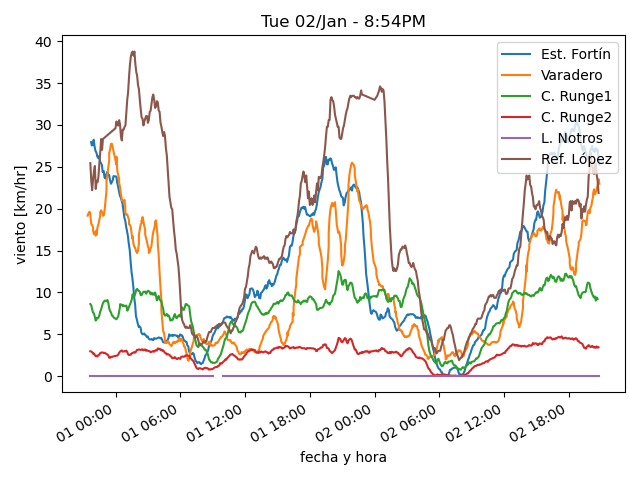
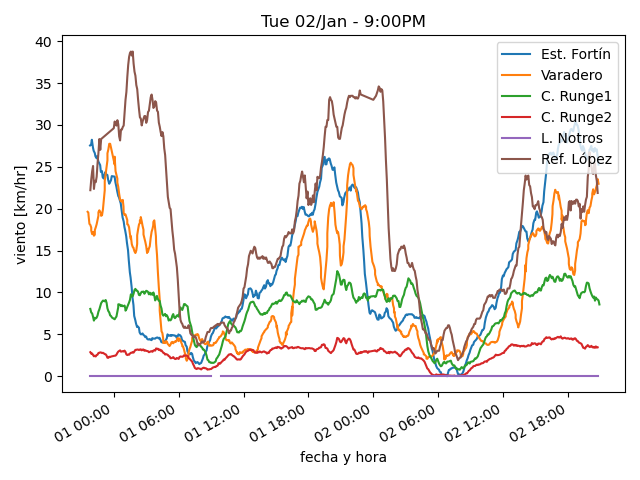
actualiza datos

diff --git a/estaciones/estacion3.html b/estaciones/estacion3.html
@@ -18,32 +18,32 @@
     </tr>
     <tr>
      <td class="stats_data">
-      8:39PM
+      8:54PM
      </td>
     </tr>
     <tr>
      <td class="stats_data">
-      21.0
+      20.9
      </td>
     </tr>
     <tr>
      <td class="stats_data">
-      7.5
+      7.7
      </td>
     </tr>
     <tr>
      <td class="stats_data">
-      41.8
+      42.4
      </td>
     </tr>
     <tr>
      <td class="stats_data">
-      1008.23
+      1008.33
      </td>
     </tr>
     <tr>
      <td class="stats_data">
-      6.1/8.4 W
+      2.4/3.5 SW
      </td>
     </tr>
     <tr>
@@ -58,7 +58,7 @@
     </tr>
     <tr>
      <td class="stats_data">
-      22.0
+      18.6
      </td>
     </tr>
    </tbody>
